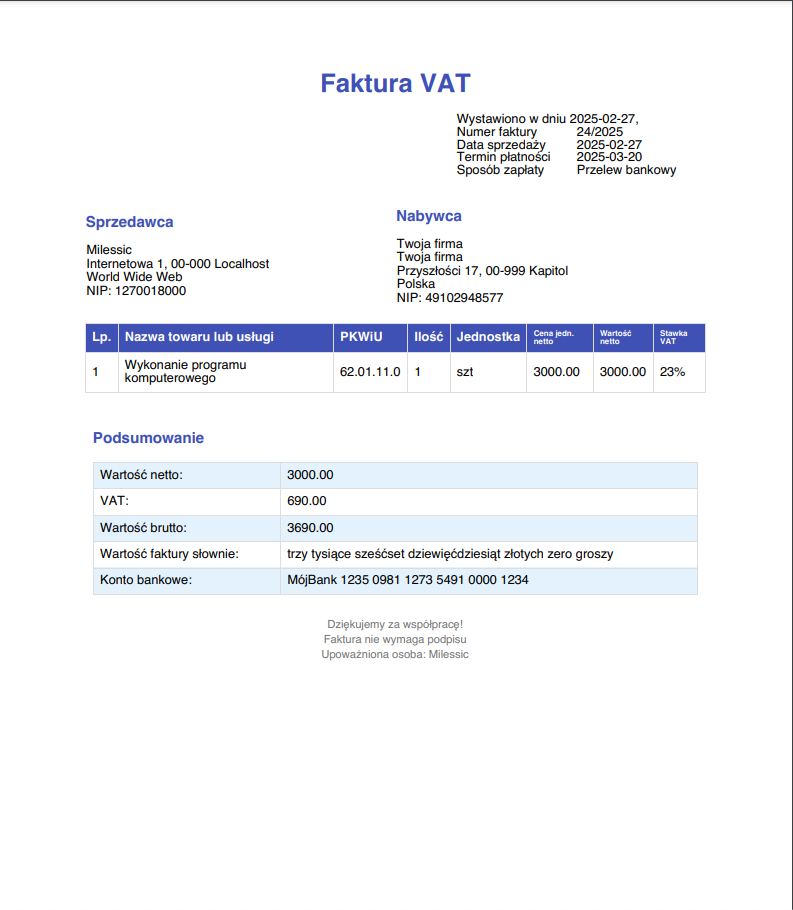
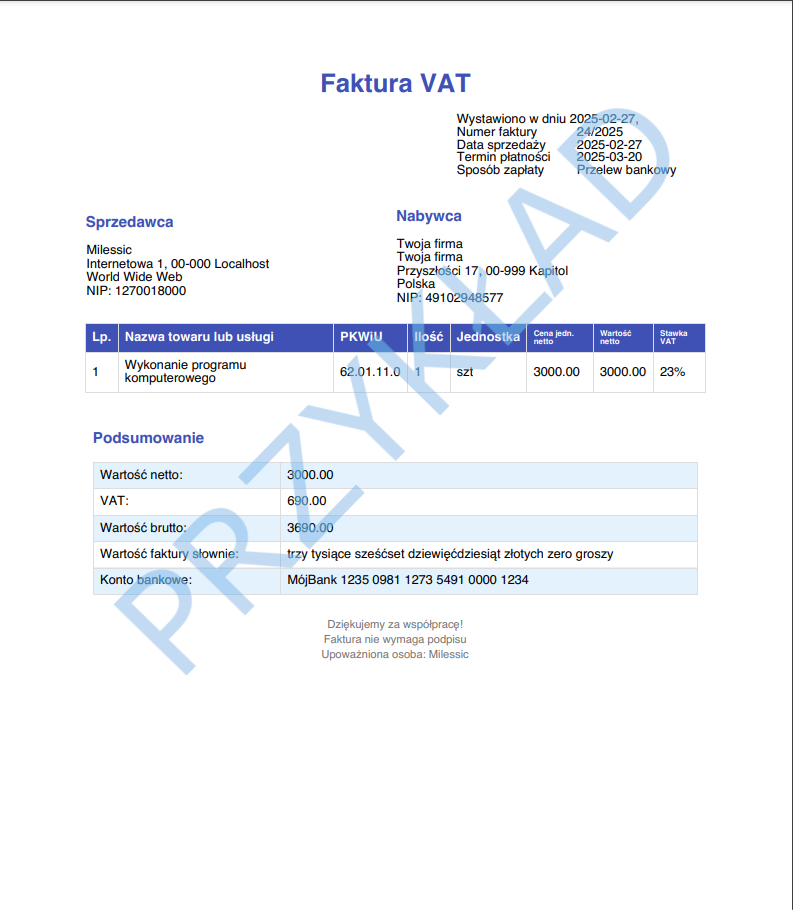
Added "Przykład" to demo invoice, fixed overlay closing

Changed region(s): [[0.1513, 0.0923, 0.8474, 0.7385]]

diff --git a/templates/index.html b/templates/index.html
@@ -293,6 +293,7 @@
 		if (!exampleShown){console.log(0);return}
 		console.log(exampleShown)
 		document.getElementById('example-container').classList.add('hidden');
+			document.getElementById('overlay').classList.add('hidden');
 		exampleShown = false;
 	});
 
@@ -301,6 +302,7 @@
 		setTimeout(()=>{exampleShown = true}, 100);
 		if ( el ) {
 			el.classList.remove('hidden');
+			document.getElementById('overlay').classList.remove('hidden');
 			return
 		}
 		const container = document.createElement('div');
@@ -318,7 +320,7 @@
 	`
 		document.body.appendChild(container);
 		document.body.appendChild(overlay);
-		document.getElementById('close-example').addEventListener('click', () => { exampleShown = false;container.classList.add('hidden')})
+		document.getElementById('close-example').addEventListener('click', () => { exampleShown = false;overlay.classList.add('hidden');container.classList.add('hidden')})
 	}
 
 	function handlePaymentMethod(){
